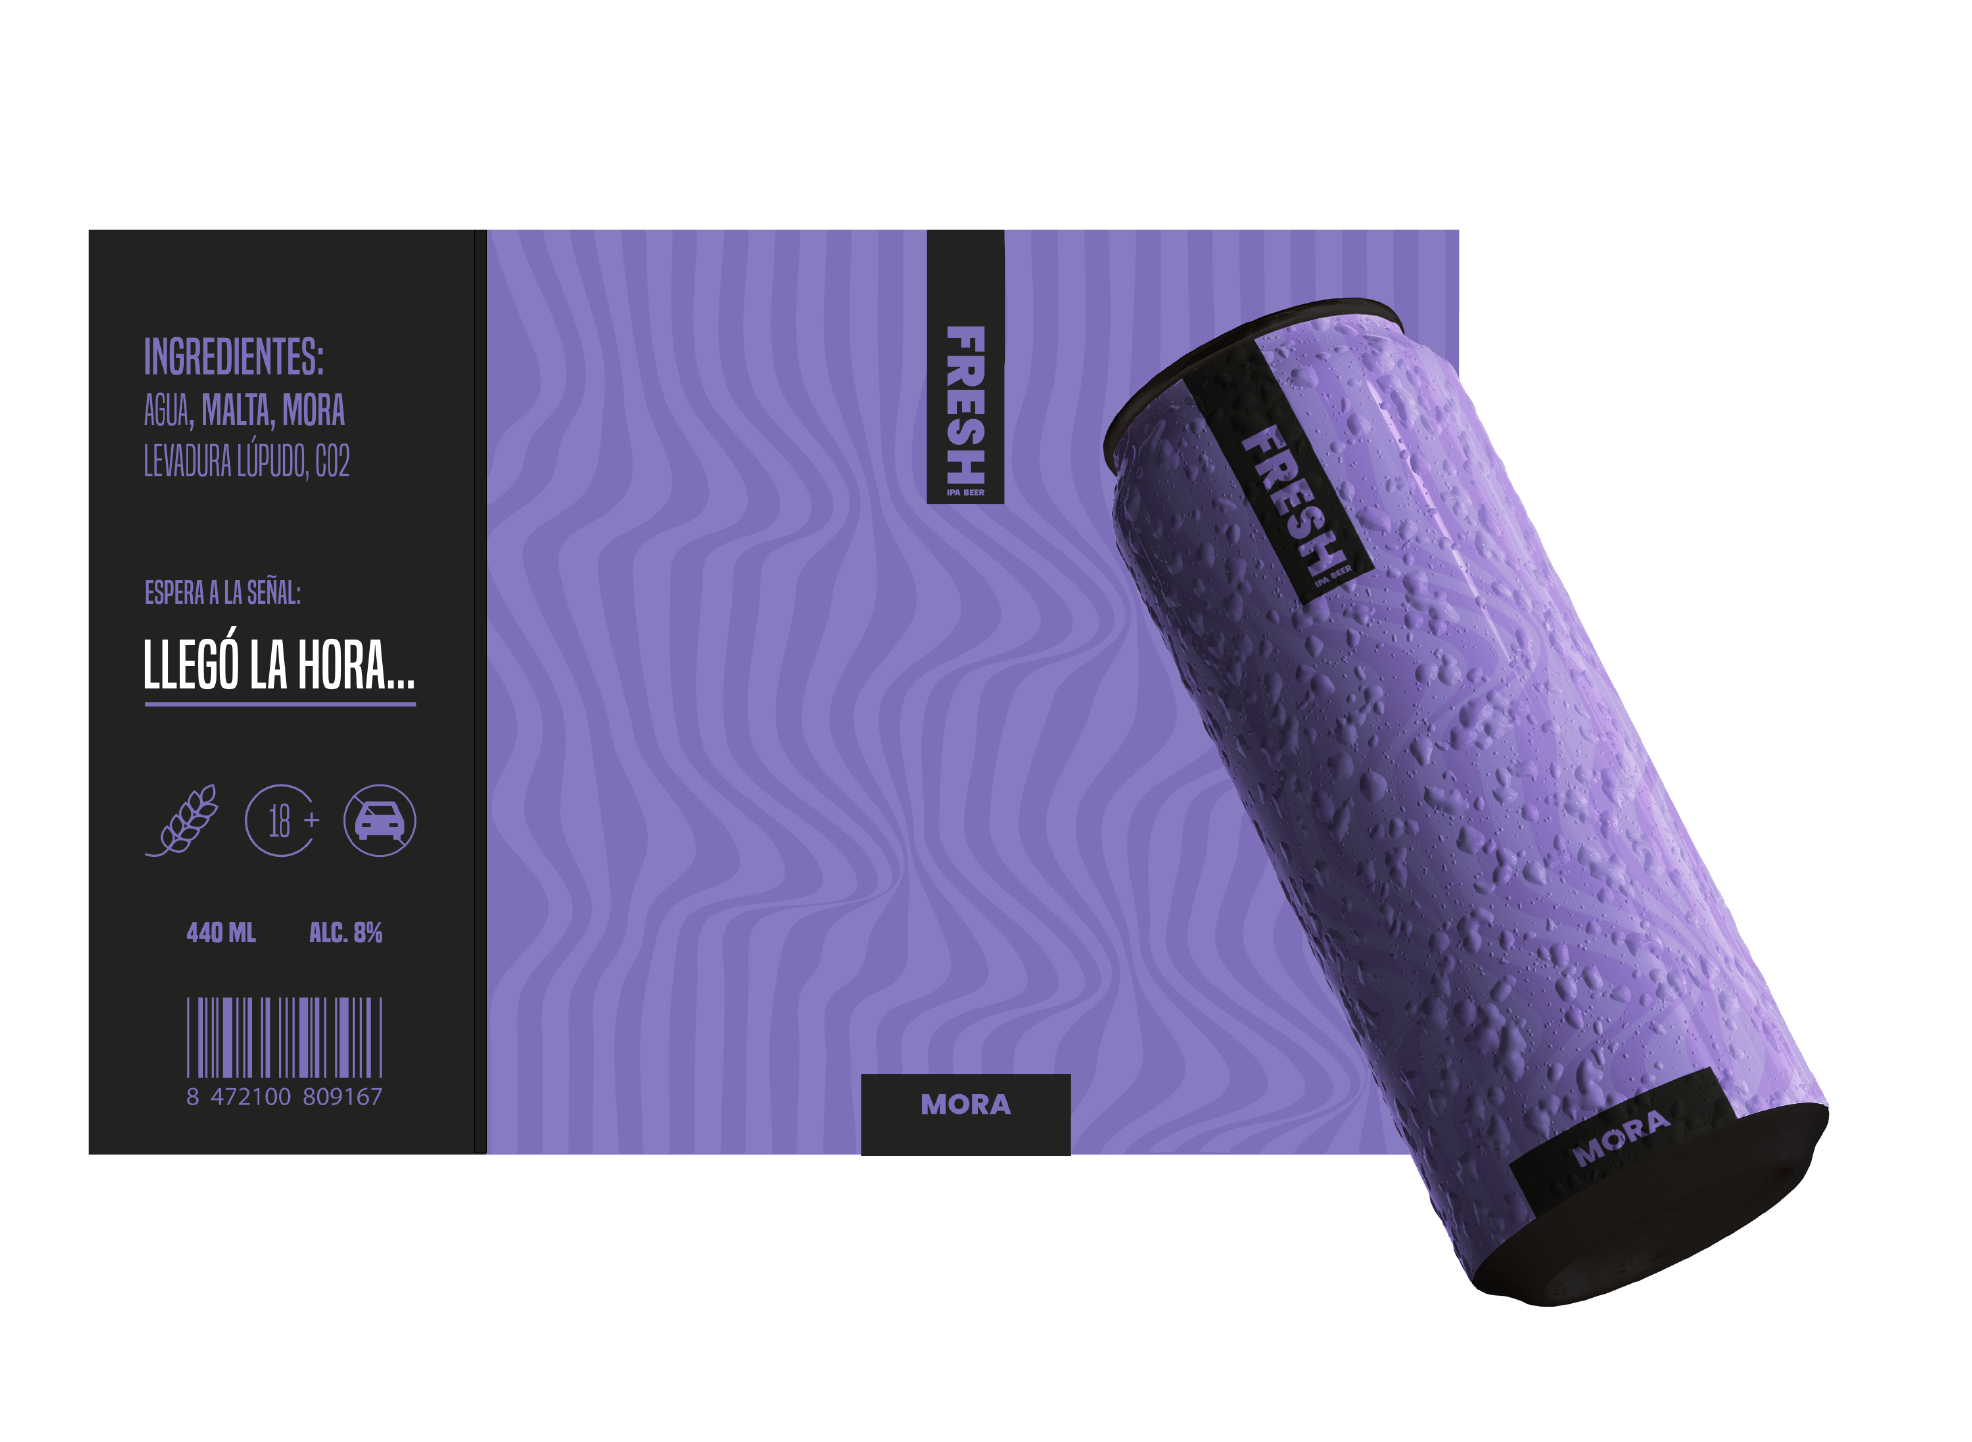
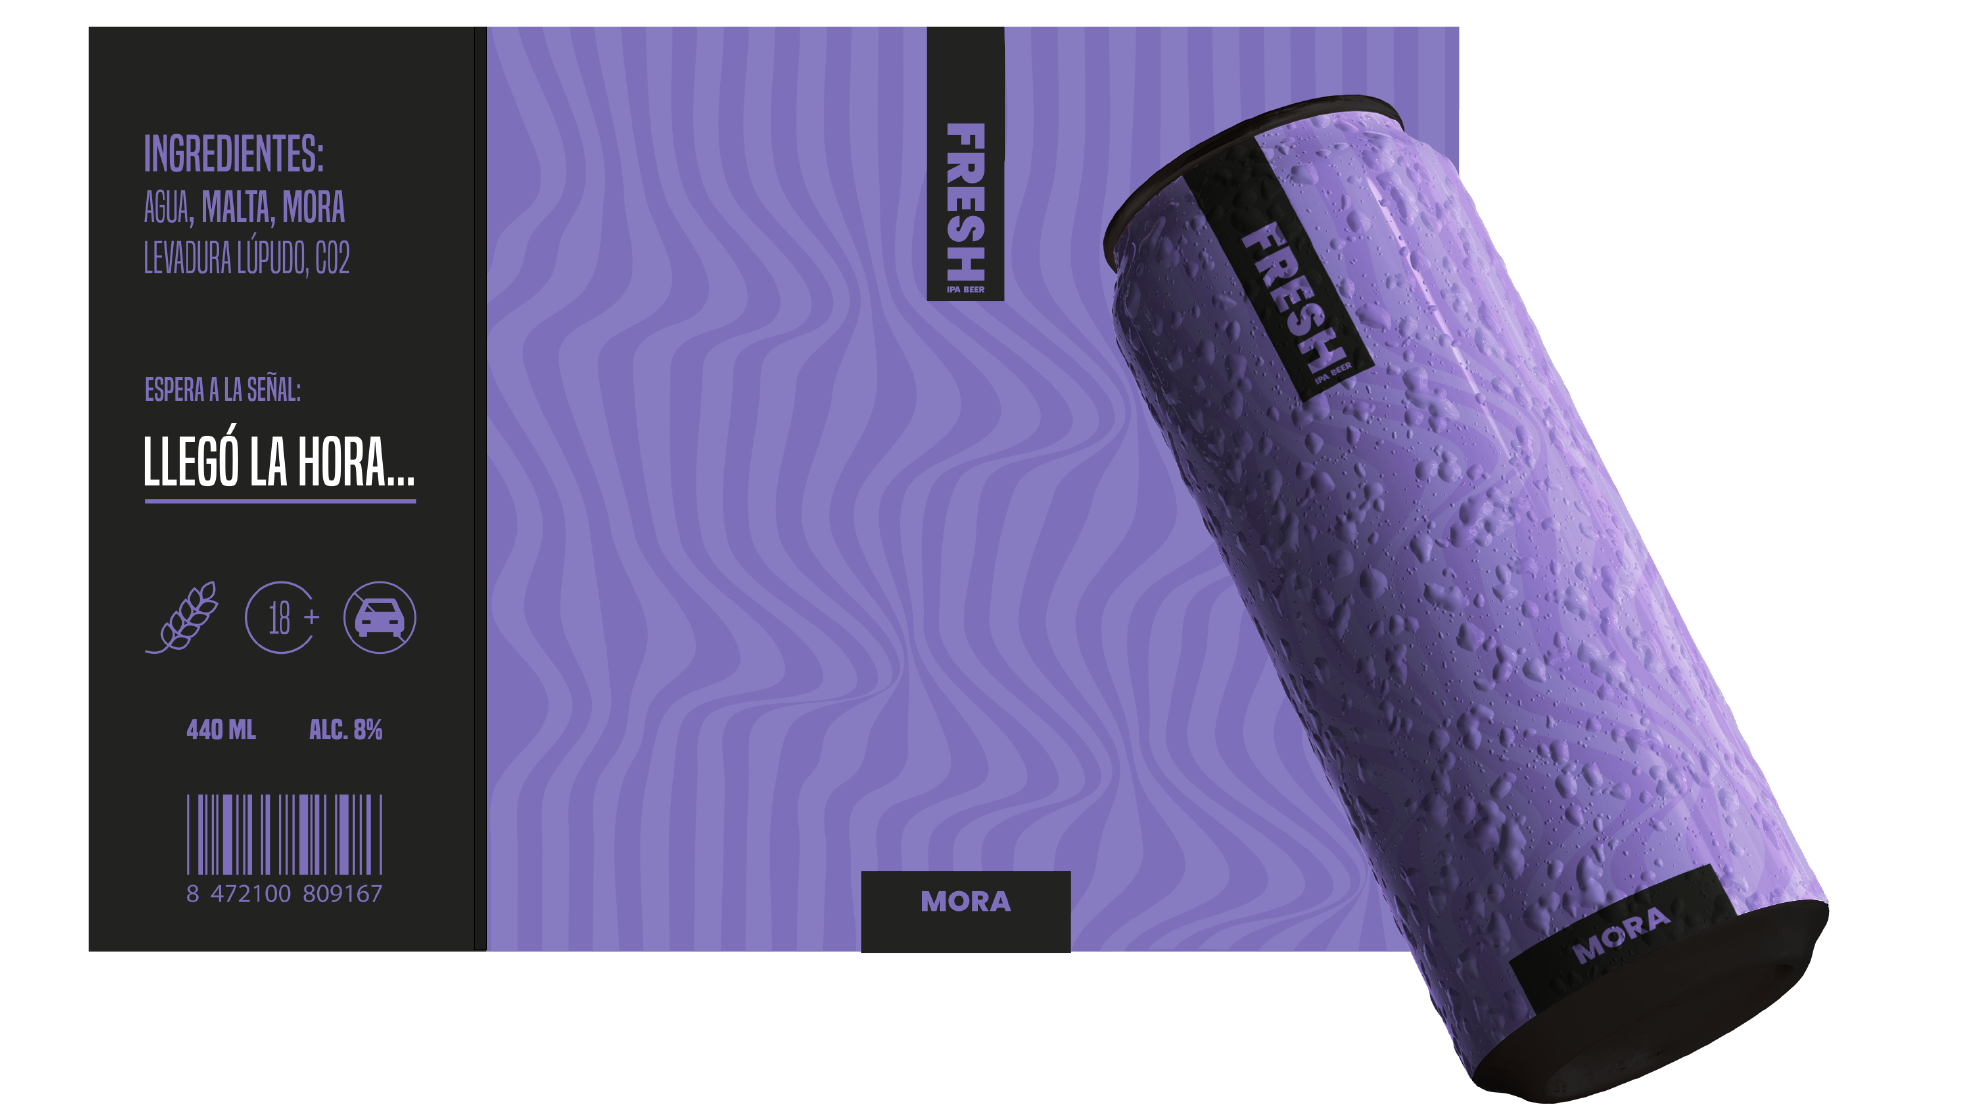
bamfer acabado, falta centrar la img vertical, fresh falta el js en las flechas

Changed region(s): [[0.0309, 0.0, 0.928, 1.0], [0.0619, 0.5189, 0.2165, 0.6104]]

diff --git a/fresh2.html b/fresh2.html
@@ -22,8 +22,10 @@
                         <h2 class="nombre__marca nombre__marca-fresh">FRESH</h2>
                     </div>
                     <!-- cont1 -->
-                    <div class="fresh__cont fresh__cont1">
-                        <p class="fresh__cont-texto fresh__cont1-texto"> FRESH es una empresa nueva en el mercado
+                    <div class="fresh__cont ">
+                        <span class="fresh__flecha fresh__flecha-izq"> < </span>
+                        <div class="fresh__cont1">
+                            <p class="fresh__cont-texto fresh__cont1-texto"> FRESH es una empresa nueva en el mercado
                             dedicada a la
                             cerveza, más concretamente a la cerveza IPA. La marca tiene
                             una línea de 5 sabores permanentes y dependiendo de la
@@ -36,19 +38,28 @@
                         <div class="fresh__cont-img fresh__cont1-img"><img class="img__cont img__cont1"
                                 src="img/marcas/fresh/1-logo-sabores.jpg" alt="">
                         </div>
+                        </div>
+                        <span class="fresh__flecha fresh__flecha-der"> > </span>
                     </div>
                     <!-- cont2 -->
                     <div class="fresh__cont fresh__cont2">
-                        <p class="fresh__cont-texto fresh__cont2-texto"> El diseño de las latas y botellas está
+                        <p class="fresh__cont-texto fresh__cont2-texto"> En esta línea compuesta por 5 sabores y un
+                            sabor que va
+                            variando, se puede encontrar algún sabor más común como
+                            lima y también sabores más arriesgados e innovadores como
+                            arándano, mango o miel.
+                            <br><br>
+                            El diseño de las latas y botellas está
                             compuesto por el patrón (en barniz selectivo) y color
                             de
-                            cada sabor. Al
+                            cada sabor. Cada patrón hace referencia a cada sabor, sus matices, caracter y esencia.
+                            Al
                             tratarse del barniz selectivo, a simple vista no se aprecia el patrón, solo se puede
                             interactuar
                             con él a través del
                             tacto al coger la lata o la botella.
                         </p>
-                        <div class="fresh__cont-img fresh__cont2-img"><img class="img__cont img__con2"
+                        <div class="fresh__cont-img fresh__cont2-img"><img class="img__cont img__cont2"
                                 src="img/marcas/fresh/2-barniz.png" alt="">
                         </div>
                     </div>
@@ -56,7 +67,8 @@
                     <div class="fresh__cont fresh__cont3">
                         <p class="fresh__cont-texto fresh__cont3-texto">
                             En su diseño también se encuentra el nombre del sabor y en la parte posteriors además de los
-                            ingredientes de cada tipo de cerveza, incluye un texto impreso en tinta termográfica. Esta
+                            ingredientes de cada tipo de cerveza, incluye un texto impreso en tinta termográfica. 
+                            <br><br>Esta
                             tinta, cuando el envase está caliente no se podrá ver, pero cuando el envase y el líquido
                             que
                             contiene estén
@@ -64,7 +76,7 @@
                             consumidor que la
                             cerveza ya está lista para ser consumida.
                         </p>
-                        <div class="fresh__cont-img fresh__cont3-img"><img class="img__cont img__con3"
+                        <div class="fresh__cont-img fresh__cont3-img"><img class="img__cont img__cont3"
                                 src="img/marcas/fresh/3-tinta.png" alt="">
                         </div>
                     </div>
@@ -74,20 +86,20 @@
                             el patrón
                             principal con los colores complementarios de la marca, con el
                             Instagram de la marca.
-                            logo de FRESH y también con la página web y perfil de
+                            logo de FRESH y también con la página web y perfil de instagram de la marca. 
+                            <br><br>
                             Las pegatinas van a funcionar como las tarjetas de visita, para
                             que la gente pueda contactar con la marca.
                             <br><br>
                             El diseño de esta tote bag esta compuesto por el patrón
                             principal con los colores complementarios de la marca y con el
                             logo de FRESH.
-                            Esta bolsa al igual que las pegatinas va a ayudar a hacer
-                            publicidad a la vez que puede ser usada por los comsumidores
-                            de la marca.
                         </p>
-                        <div class="fresh__cont-img fresh__cont4-img"><img class="img__cont img__con4" src="" alt="">
+                        <div class="fresh__cont-img fresh__cont4-img"><img class="img__cont img__cont4" src="img/marcas/fresh/4-pegatinas-tote.jpg" alt="">
                         </div>
                     </div>
+                    <!-- carrusel js
+                    https://codepen.io/CamSal/pen/wmYmbx -->
                 </div>
             </div>
         </div>

diff --git a/style.css b/style.css
@@ -89,9 +89,10 @@
 }
 
 .link {
-    color: var(--color-oscuro-opacidad);
+    color: var(--color-oscuro);
     text-decoration: none;
     list-style: none;
+    font-size: 20px;
 }
 
 .link:hover {
@@ -569,7 +570,7 @@
 }
 
 
-/* @media (max-width: 2000px) {
+@media (max-width: 2000px) {
     .img-sobreMi {
         height: 662px;
     }
@@ -581,7 +582,7 @@
     .movil--CV_boton {
         display: none;
     }
-} */
+}
 
 @media (max-width: 1200px) {
     .sobreMi__info {
@@ -834,27 +835,92 @@
     color: var(--color-gris);
     font-family: montserrat-regular;
     letter-spacing: 1px;
-    line-height: 1.3em;
+    line-height: 1.3em;    
+    display: flex;
+    flex-direction: column;
+    gap: 24px;
 }
 
+
 .fresh__cont {
+    width: 100%;
+    display: flex;
+    gap: 16px;
+    justify-content: center;
+    align-items: center;
+}
+
+
+.fresh__flecha{
+    color: var(--color-gris);
+    font-family: montserrat-bold;
+    font-size: 24px;
+    color: var(--color-oscuro);
+    background-color: var(--color-claro);
+    padding: 8px;
+    border-radius: 50%;
+}
+
+.fresh__cont1 {
     width: 100%;
     display: flex;
     gap: 72px;
     justify-content: center;
 }
 
-.fresh__cont-texto {
+.fresh__cont1-texto {
     width: 100vw;
-    display: flex;
-    flex-direction: column;
-    gap: 24px;
 }
 
-.img__cont {
+.img__cont1 {
     width: 96%;
 }
 
+.fresh__cont2 {
+    width: 100%;
+    display: flex;
+    gap: 72px;
+    justify-content: center;
+}
+
+.fresh__cont2-texto {
+    width: 196vw;
+}
+
+.img__cont2 {
+    width: 96%;
+}
+
+.fresh__cont3 {
+    width: 100%;
+    display: flex;
+    gap: 72px;
+    justify-content: center;
+}
+
+.fresh__cont3-texto {
+    width: 100vw;
+}
+
+.img__cont3 {
+    width: 106%;
+}
+
+
+.fresh__cont4 {
+    width: 100%;
+    display: flex;
+    gap: 100px;
+    justify-content: center;
+}
+
+.fresh__cont4-texto {
+    width: 162vw;
+}
+
+.img__cont4 {
+    width: 96%;
+}
 
 @media (max-width: 2000px) {
     .imagen__marca-movil {

diff --git a/bamfer.html b/bamfer.html
@@ -43,9 +43,9 @@
                         una manera más dinámica y discreta.
                     </p>
                 </div>
-                <div class="imagen__marca-ord"><img class="img__marca-ord" src="img/marcas/9-sonor_web1.png" alt="">
+                <div class="imagen__marca-ord"><img class="img__marca-ord" src="img/marcas/1-bamfer_web.png" alt="">
                 </div>
-                <div class="imagen__marca-movil"><img class="img__marca-movil" src="img/marcas/9-sonor_web.png" alt="">
+                <div class="imagen__marca-movil"><img class="img__marca-movil" src="img/marcas/1-lbamfer_web1.png" alt="">
                 </div>
             </div>
         </div>

diff --git a/vision.activa.html b/vision.activa.html
@@ -36,7 +36,7 @@
                         tipografía caligráfica.
                         <br> <br>
                         Realizamos unas tarjetas de visita que funcionan como libreta para que los pacientes sepan
-                        cuantas citas llevan y cuando es la siguiente, sumando el contacto por al paciente le surge
+                        cuántas citas llevan y cuándo es la siguiente, sumando el contacto por al paciente le surge
                         alguna duda.
                     </p>
                 </div>

diff --git a/index.html b/index.html
@@ -23,7 +23,7 @@
         <div class="front">
             <div class="intro">
                 <img class="logo" src="img/marcas/bamfer/logo.png" alt="logo">
-                <h2 class="sub1">Diseño gráfico, desarrollo web <br>fotografía y preimpresión / impresión gráfica
+                <h2 class="sub1">Diseño gráfico, desarrollo web, <br>fotografía y preimpresión / impresión gráfica
                 </h2>
             </div>
 
